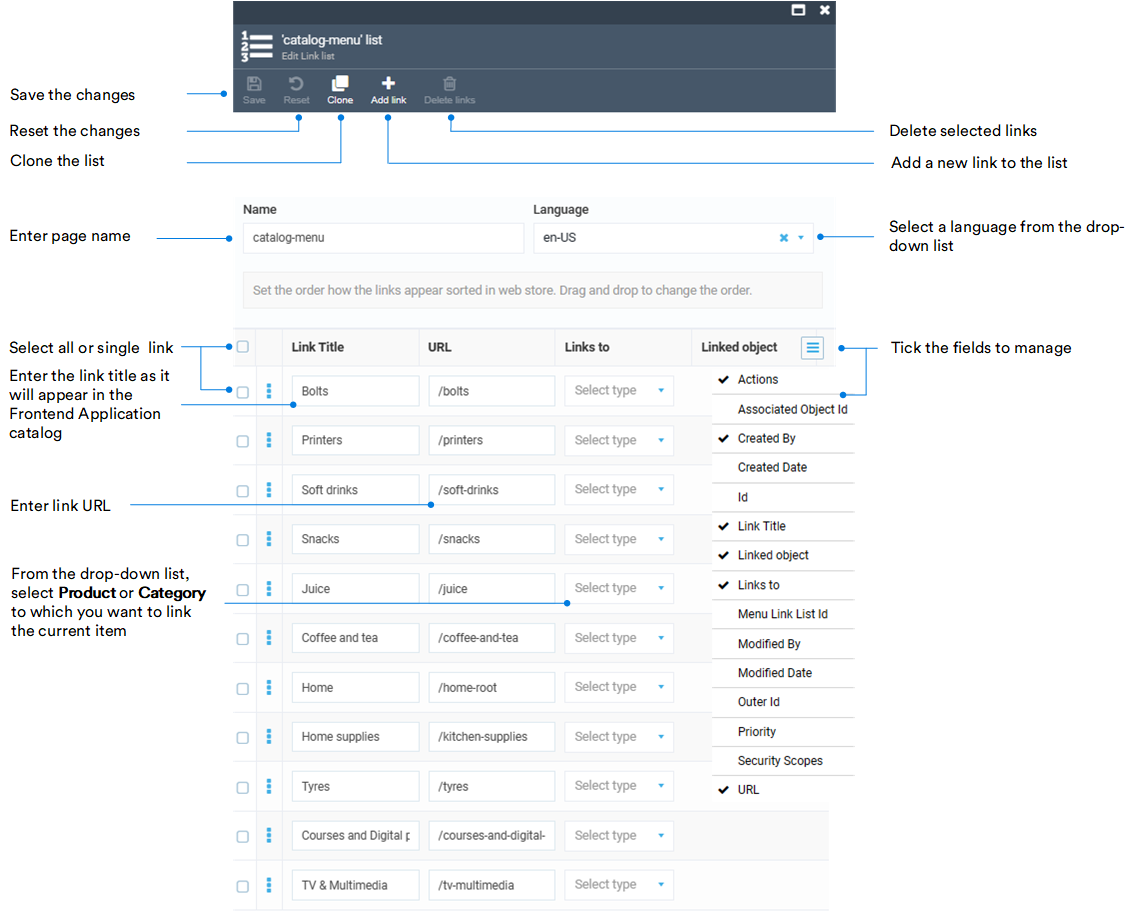
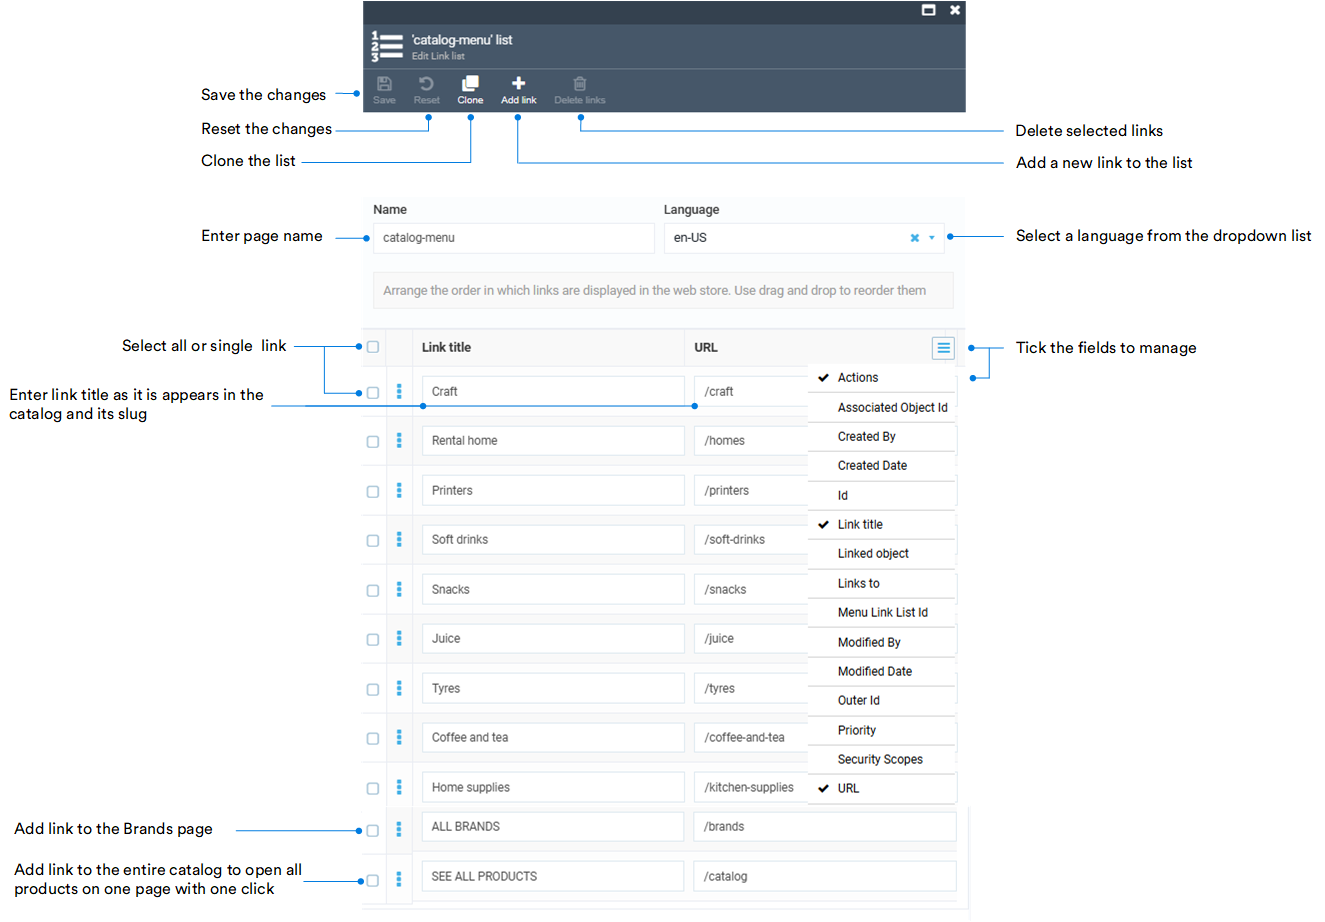
Added: mega menu guides

diff --git a/platform/user-guide/docs/content/managing-linklists.md b/platform/user-guide/docs/content/managing-linklists.md
@@ -1,29 +1,71 @@
 # Manage Link Lists
 
-In the Virto Commerce Content module, link lists are collections of hyperlinks organized to facilitate efficient navigation through the catalog and provide quick access to its items. 
+In the Virto Commerce Content module, link lists are collections of hyperlinks organized to facilitate efficient navigation through the catalog and provide quick access to its items via the mega menu or footer.
 
-Click on the **Link lists** widget:
+## Manage mega menu
 
-* To open the list of all the links in the catalog.
-* To add new links.
-* To delete links. 
+On the frontend, the mega menu consists of two parts:
 
-Let's see how to create the catalog as in the [Virto Commerce Frontend Application demo version](https://virtostart-demo-store.govirto.com/). 
+* A dropdown menu that is generated automatically based on catalog data. Users can access a category or its nested subcategories with just a few clicks.
+* A horizontal bar that can either be configured using the link lists widget or generated automatically from catalog data. Users access a selected category with a single click. 
 
-![Example](media/catalog-example.png){: width="600"}
+![Mega menu parts](media/megamenu-parts.png){: style="display: block; margin: 0 auto;" }
 
-1. Click **Add** in the toolbar to add a new link list.
-1. In our example, the list contains 11 links (Bolts, Printers, Soft Drinks, Snacks, etc). Fill in the fields as follows:
+Let's create a horizontal bar of the mega menu from the above illustration: 
 
-    ![Example](media/link-lists-example.png)
+1. Click **Content** in the main menu.
+1. In the next blade, select the required store, then click on the link lists widget.
+1. In the next blade, click **Add** in the toolbar to add a new link list.
+1. Let's add the existing catalog categories to the link list to be displayed in the mega menu:
 
-1. Click **Save** in the toolbar to save the changes.
-1. Now let's fill in the **Juice** category with products. Click **Add link** in the toolbar.
-1. We want to add multi-fruit juice and syrup to the **Juice** category. Therefore, the URLs are **/juice/multi-fruit-juice** and **/juice/syrup**:
+    ![Example](media/link-lists-example.png){: style="display: block; margin: 0 auto;" }
 
-    ![Add products](media/add-products.png)
+1. Click **Create** in the toolbar to save the changes.
 
-1. Click **Save** in the toolbar to save the changes.
-1. Do the same for other categories.
+    Your new link list appears in the link lists blade. Here, you can:
 
-Your catalog is now complete.
+    * View all the available lists.
+    * Add new lists.
+    * Delete lists.
+
+1. Now we need to add this link to the store settings so that the Frontend uses the newly created catalog-menu as the source for the mega menu's horizontal bar, instead of generating it automatically from catalog data. Click **Stores** in the main menu.
+1. In the next blade, select your store.
+1. In the next blade, click on the **Settings** widget.
+1. In the **Settings** blade, find **Virto Commerce Frontend** segment and add **catalog-menu** as the top level catalog linked list.
+
+    ![Horizontal menu source](media/top-level-catalog-link.png){: style="display: block; margin: 0 auto;" }
+
+1. Click **OK**, then click **Save** in the previous blade to save the changes. 
+
+Your newly configured menu appears on the frontend.
+
+
+## Manage footer
+
+Let's create the following footer:
+
+![Footer example](media/footer-example.png){: style="display: block; margin: 0 auto;" }
+
+1. Go to **Content** --> Your store --> **Link lists**.
+1. In the **Link lists** blade, click **Add** in the toolbar.
+1. To create root categories, fill in the fields as follows:
+
+    ![Footer links](media/footer-links.png){: style="display: block; margin: 0 auto;" }
+
+    !!! note
+        Name your footer link list **footer-links** so the Platform recognizes it as a part of the footer structure.
+
+1. Click **Create**. The current result in the Frontend Application is as follows:
+
+    ![Footer result](media/footer-example1.png){: style="display: block; margin: 0 auto;" }
+
+1. Now let's add subcategories to the footer root categories. In the **Link lists** blade, click **Add** in the toolbar.
+1. For the **My account** category, fill in the fields as follows:
+
+    ![Root categories](media/footer-subcategories.png){: style="display: block; margin: 0 auto;" }
+
+1. Click **Create**.
+
+Continue adding subcategories to the root categories according to the example above.
+
+The footer appears in the Frontend Application.

diff --git a/storefront/user-guide/docs/navigation/homepage-layout.md b/storefront/user-guide/docs/navigation/homepage-layout.md
@@ -15,12 +15,20 @@ From the top menu, you can:
 * Access your account profile.
 * Select language and currency to display prices in.
 * Search for products by their name or SKU, and more.
+* Quickly access comparison and shopping lists.
+* View the list of orders.
+* Read notifications.
+* Quickly navigate through the catalog via the mega menu.
 
 ![top menu](../media/top-menu.png)
 
 ![Readmore](../media/readmore.png){: width="25"} [Bulk orders](../shopping/bulk-orders.md)
 
 ![Readmore](../media/readmore.png){: width="25"} [Comparing products](../shopping/compare-products.md)
+
+![Raedmore](../media/readmore.png){: width="25"} [Managing mega menu](../../../../platform/user-guide/content/managing-linklists#manage-mega-menu)
+
+
 
 ## Catalogs, subcatalogs, facets
 
